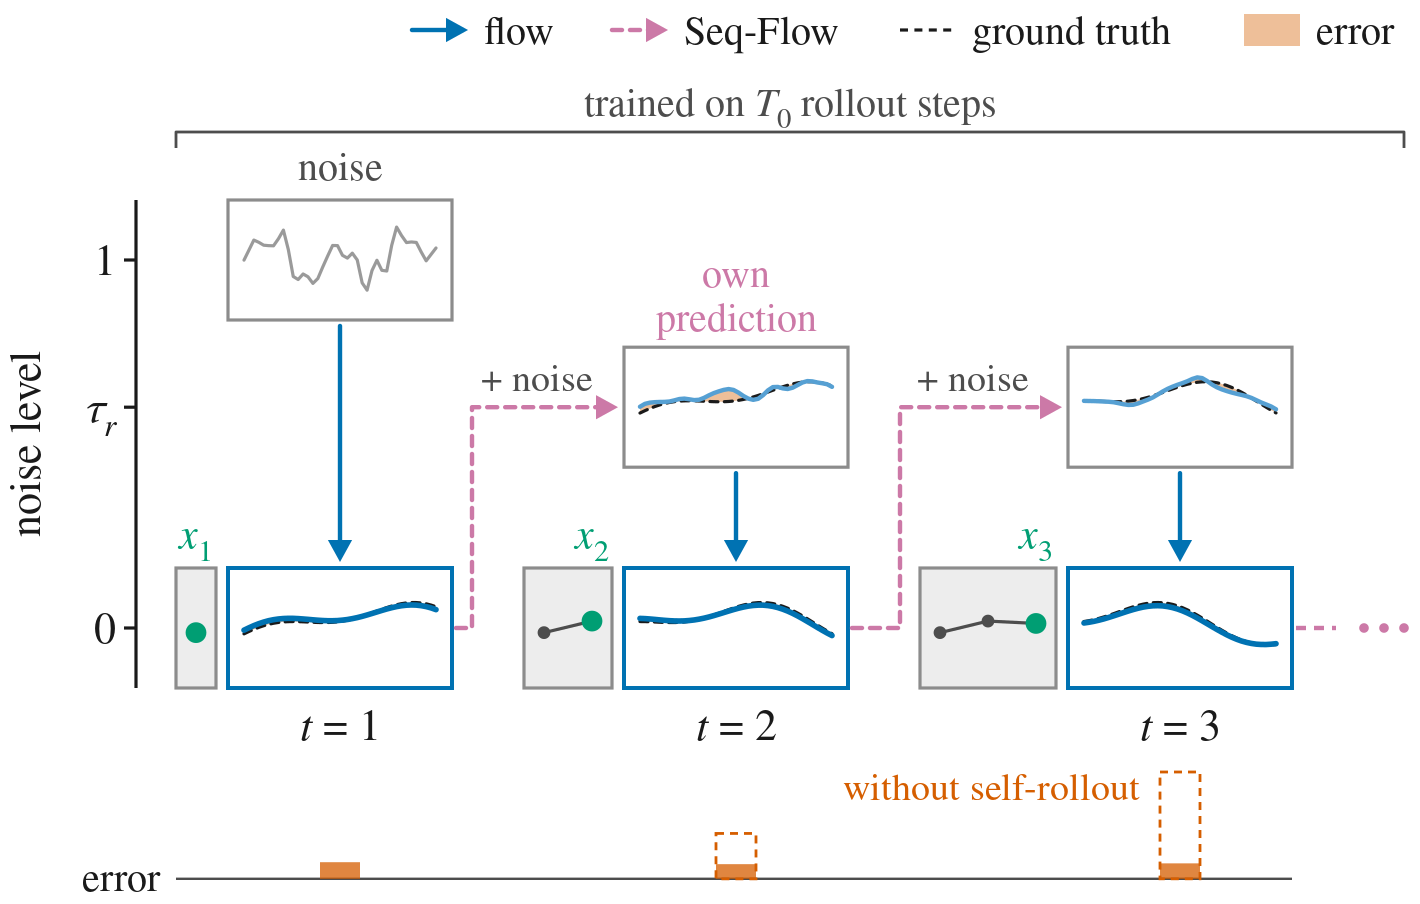
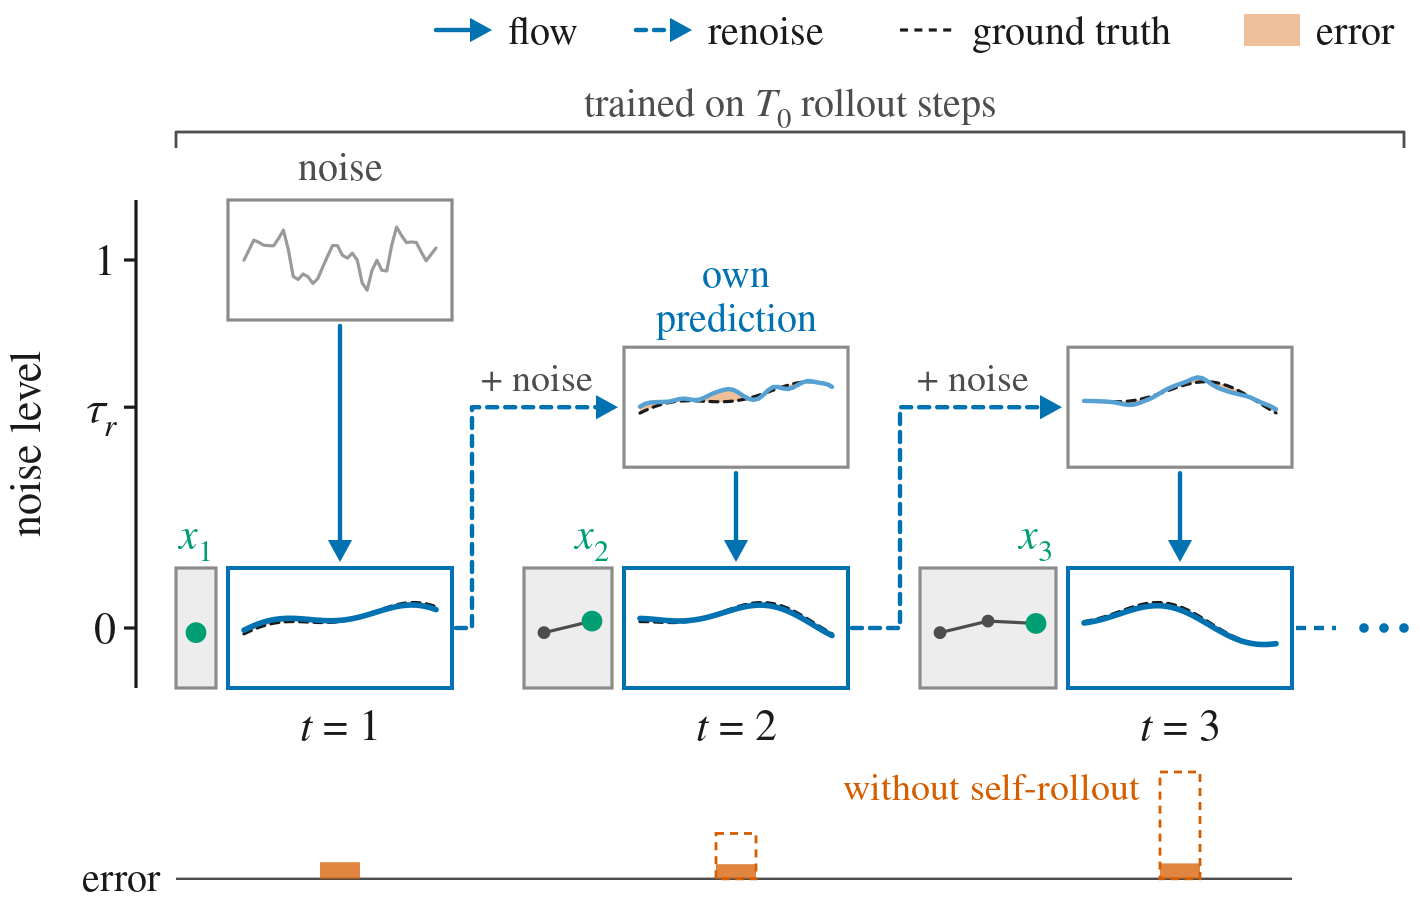
seqflow-figure: v25 renoise arrow blue dashed

diff --git a/seqflow-figure/index.html b/seqflow-figure/index.html
@@ -19,13 +19,13 @@
 <body>
 <h1>Seq-Flow method figure</h1>
 <div class="meta">
-  <span id="ver">method_figure_v25_20260926 2026-09-26T04:19Z</span> &middot;
+  <span id="ver">method_figure_v25_20260926 2026-09-26T04:22Z</span> &middot;
   <a href="figure.svg">SVG</a><a href="figure.pdf">PDF</a><a href="figure.png">PNG</a>
 </div>
-<div class="fig"><img src="figure.svg?v=method_figure_v25_20260926 2026-09-26T04:19Z" alt="Seq-Flow method figure"></div>
+<div class="fig"><img src="figure.svg?v=method_figure_v25_20260926 2026-09-26T04:22Z" alt="Seq-Flow method figure"></div>
 <div class="paper">
   <p>At paper width (5.5 in, \textwidth):</p>
-  <div class="fig"><img src="figure.svg?v=method_figure_v25_20260926 2026-09-26T04:19Z" alt="Seq-Flow method figure at paper width"></div>
+  <div class="fig"><img src="figure.svg?v=method_figure_v25_20260926 2026-09-26T04:22Z" alt="Seq-Flow method figure at paper width"></div>
 </div>
 </body>
 </html>
